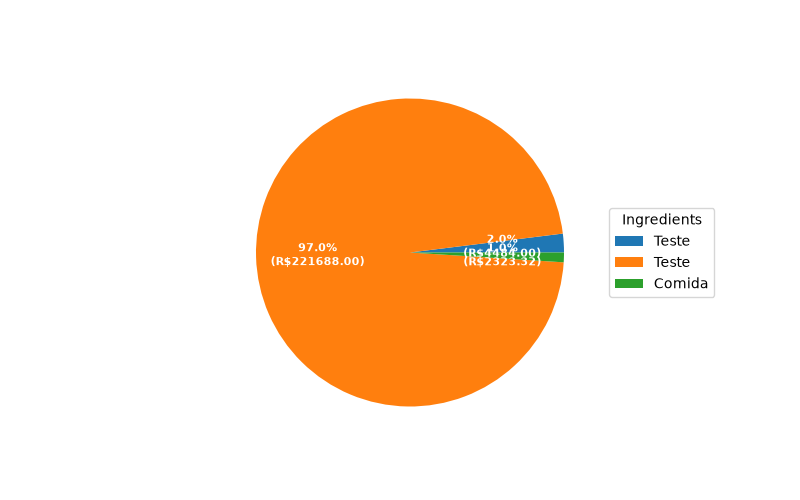
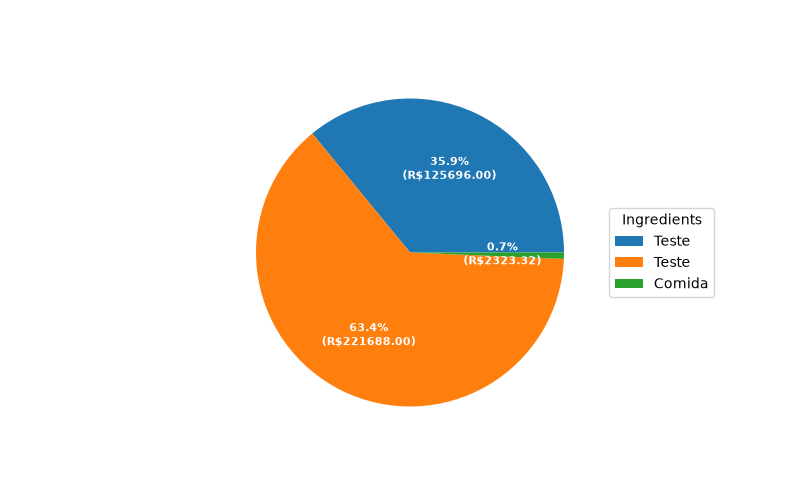
Ajustando caminhos e parte ganhos

Changed region(s): [[0.375, 0.18, 0.7188, 0.54], [0.4062, 0.63, 0.5312, 0.69], [0.3438, 0.48, 0.4688, 0.54]]

diff --git a/finance/templates/finance/ganhos.html b/finance/templates/finance/ganhos.html
@@ -6,9 +6,9 @@
 <head>
     <meta charset="UTF-8">
     <meta name="viewport" content="width=device-width, initial-scale=1.0">
-    <title>Gastos - Gestão Financeira</title>
+    <title>Ganhos - Gestão Financeira</title>
     <link href="https://cdn.jsdelivr.net/npm/bootstrap@5.3.0/dist/css/bootstrap.min.css" rel="stylesheet">
-    <link rel="stylesheet" href="../../static/style/gastos.css">
+    <link rel="stylesheet" href="../../static/style/ganhos.css">
 </head>
 
 <body class="bg-custom">
@@ -27,10 +27,10 @@
                     <a class="nav-link" href="{% url 'finance:dashboard' %}">Dashboard</a>
                 </li>
                 <li class="nav-item">
-                    <a class="nav-link active" href="{% url 'finance:consultar_gastos_by_params' %}">Gastos</a>
+                    <a class="nav-link" href="{% url 'finance:consultar_gastos_by_params' %}">Gastos</a>
                 </li>
                 <li class="nav-item">
-                    <a class="nav-link" href="{% url 'finance:consultar_ganhos_by_params' %}">Ganhos</a>
+                    <a class="nav-link active" href="{% url 'finance:consultar_ganhos_by_params' %}">Ganhos</a>
                 </li>
                 <li class="nav-item">
                     <a class="nav-link" href="#">Categorias</a>
@@ -52,9 +52,9 @@
 
                 <!-- Formulário de busca -->
                 <div class="card card-dark p-4 mb-4">
-                    <h5 class="mb-3 text-title">Consultar Gastos</h5>
+                    <h5 class="mb-3 text-title">Consultar Ganhos</h5>
 
-                    <form method="POST" action="{% url 'finance:consultar_gastos_by_params' %}">
+                    <form method="POST" action="{% url 'finance:consultar_ganhos_by_params' %}">
                         {% csrf_token %}
 
                         <div class="row g-3">
@@ -100,9 +100,9 @@
                     </form>
 
                     <div class="p-3 pt-0 mt-auto">
-                        <button type="button" class="btn btn-primary btn-add-gasto w-100 text-center"
-                            data-bs-toggle="modal" data-bs-target="#modalGasto">
-                            + Adicionar Gasto
+                        <button type="button" class="btn btn-primary btn-add-ganhos w-100 text-center"
+                            data-bs-toggle="modal" data-bs-target="#modalganhos">
+                            + Adicionar ganhos
                         </button>
                     </div>
                 </div>
@@ -111,7 +111,7 @@
                 <div class="card card-dark p-4">
                     <h5 class="mb-3 text-title">Resultados</h5>
 
-                    {% if gastos_consultados %}
+                    {% if ganhos_consultados %}
                     <div class="table-responsive table-scroll-container">
                         <table class="table table-dark-custom mb-0">
                             <thead>
@@ -124,26 +124,26 @@
                                 </tr>
                             </thead>
                             <tbody>
-                                {% for gasto in gastos_consultados %}
+                                {% for ganhos in ganhos_consultados %}
                                 <tr>
-                                    <td>{{ gasto.description }}</td>
-                                    <td class="text-negative">R$ {{ gasto.value }}</td>
-                                    <td>{{ gasto.date_paid }}</td>
+                                    <td>{{ ganhos.description }}</td>
+                                    <td class="text-negative">R$ {{ ganhos.value }}</td>
+                                    <td>{{ ganhos.date_paid }}</td>
                                     <td>
-                                        {% if gasto.is_paid %}
+                                        {% if ganhos.is_paid %}
                                         <span class="text-positive">Pago</span>
                                         {% else %}
                                         <span class="text-warning">Não pago</span>
                                         {% endif %}
                                     </td>
-                                    <td>{{ gasto.type }}</td>
+                                    <td>{{ ganhos.type }}</td>
                                 </tr>
                                 {% endfor %}
                             </tbody>
                         </table>
                     </div>
                     {% else %}
-                    <p class="text-label mb-0">Nenhum gasto encontrado.</p>
+                    <p class="text-label mb-0">Nenhum ganhos encontrado.</p>
                     {% endif %}
                 </div>
 
@@ -151,15 +151,15 @@
         </div>
     </div>
 
-    <div class="modal fade" id="modalGasto" tabindex="-1" aria-labelledby="modalGastoLabel" aria-hidden="true">
+    <div class="modal fade" id="modalganhos" tabindex="-1" aria-labelledby="modalganhosLabel" aria-hidden="true">
         <div class="modal-dialog">
             <div class="modal-content">
                 <div class="modal-header">
-                    <h1 class="modal-title fs-5" id="modalGastoLabel">Novo Gasto</h1>
+                    <h1 class="modal-title fs-5" id="modalGanhoLabel">Novo Ganho</h1>
                     <button type="button" class="btn-close" data-bs-dismiss="modal" aria-label="Close"></button>
                 </div>
                 <div class="modal-body">
-                    <form action="{% url 'finance:registrar_gasto' %}" method="post">
+                    <form action="{% url 'finance:registrar_ganho' %}" method="post">
                         {% csrf_token %}
                         <div class="mb-3">
                             <label for="description" class="form-label text-label">Descrição</label>
@@ -189,20 +189,20 @@
                             <label for="type" class="form-label text-label">Categoria</label>
                             <select class="form-select bg-dark text-white border-secondary" id="type" name="type">
                                 <option value="" selected disabled>Selecione uma opção</option>
-                                {% for tipo in tipos_gastos %}
+                                {% for tipo in tipos_ganhos %}
                                 <option value="{{ tipo.id }}">{{ tipo.name }}</option>
                                 {% endfor %}
                             </select>
 
                             <button type="button" class="btn btn-link btn-sm mt-1 p-0" data-bs-toggle="modal"
-                                data-bs-target="#modalTipoGasto">
+                                data-bs-target="#modalTipoganhos">
                                 + Adicionar Categoria
                             </button>
                         </div>
 
                         <div class="modal-footer border-secondary">
                             <button type="button" class="btn btn-secondary" data-bs-dismiss="modal">Close</button>
-                            <button type="submit" class="btn btn-primary">Salvar Gasto</button>
+                            <button type="submit" class="btn btn-primary">Salvar ganhos</button>
                         </div>
                     </form>
                 </div>
@@ -214,7 +214,7 @@
         <div class="modal-dialog">
             <div class="modal-content">
                 <div class="modal-header">
-                    <h1 class="modal-title fs-5" id="modalTipoGanhoLabel">Nova Categoria de Gasto</h1>
+                    <h1 class="modal-title fs-5" id="modalTipoGanhoLabel">Nova Categoria de ganhos</h1>
                     <button type="button" class="btn-close" data-bs-dismiss="modal" aria-label="Close"></button>
                 </div>
                 <div class="modal-body">

diff --git a/finance/static/style/ganhos.css b/finance/static/style/ganhos.css
@@ -117,6 +117,25 @@ body.bg-custom {
     transform: translateY(-2px);
 }
 
+.grafico-img {
+    max-width: 100%;
+    height: auto;
+    display: block;
+    margin: 0 auto;
+    border-radius: 0.5rem;
+}
+
+@media (max-width: 991.98px) {
+    .responsive-nav-items {
+        padding-top: 1rem;
+        flex-direction: column;
+        align-items: flex-start !important;
+    }
+}
+
+/* ==================== Específico da página de Gastos ==================== */
+
+/* Inputs e selects dentro dos cards escuros */
 .card-dark .form-control,
 .card-dark .form-select {
     background-color: var(--bg-principal);
@@ -166,28 +185,12 @@ body.bg-custom {
 .table-scroll-container thead th {
     position: sticky;
     top: 0;
-    background-color: var(--bg-cards);
+    background-color: var(--bg-cards); /* mesma cor do card pra não ficar transparente */
     z-index: 1;
 }
 
 .text-warning {
     color: var(--color-warning) !important;
-}
-
-.grafico-img {
-    max-width: 100%;
-    height: auto;
-    display: block;
-    margin: 0 auto;
-    border-radius: 0.5rem;
-}
-
-@media (max-width: 991.98px) {
-    .responsive-nav-items {
-        padding-top: 1rem;
-        flex-direction: column;
-        align-items: flex-start !important;
-    }
 }
 
 /* ==================== Sidebar fixa ==================== */

diff --git a/finance/templates/finance/dashboard.html b/finance/templates/finance/dashboard.html
@@ -30,7 +30,7 @@
                     <a class="nav-link" href="{% url 'finance:consultar_gastos_by_params' %}">Gastos</a>
                 </li>
                 <li class="nav-item">
-                    <a class="nav-link" href="#">Ganhos</a>
+                    <a class="nav-link" href="{% url 'finance:consultar_ganhos_by_params' %}">Ganhos</a>
                 </li>
                 <li class="nav-item">
                     <a class="nav-link" href="#">Categorias</a>

diff --git a/finance/static/style/gastos.css b/finance/static/style/gastos.css
@@ -229,7 +229,7 @@ body.bg-custom {
 }
 
 .sidebar-fixed .nav-link.active {
-    background-color: var(--cor-positivo);
+    background-color: var(--cor-negativo);
     color: #ffffff;
     font-weight: 600;
 }

diff --git a/finance/views.py b/finance/views.py
@@ -185,3 +185,32 @@ def consultar_gastos_by_params(request):
     context = {"gastos_consultados":gastos_consultados.order_by('-date_paid'), "tipos_gastos":tipos_gastos}
 
     return render(request, 'finance/gastos.html', context=context)    
+
+@login_required(login_url="/finance/login/")
+def consultar_ganhos_by_params(request):
+    user = request.user
+    ganhos_consultados = Ganho.objects.filter(user=user)
+
+    if request.method == "POST":
+        description_search = request.POST.get('description_search')
+        date_start = request.POST.get('date_start')
+        date_end = request.POST.get('date_end')
+        value = request.POST.get('value')
+
+        if description_search:
+            ganhos_consultados = ganhos_consultados.filter(description__icontains=description_search)
+
+        if date_start:
+            ganhos_consultados = ganhos_consultados.filter(date_paid__gte=date_start)
+
+        if date_end:
+            ganhos_consultados = ganhos_consultados.filter(date_paid__lte=date_end)
+
+        if value:
+            ganhos_consultados = ganhos_consultados.filter(value=value)
+
+    tipos_ganhos = TipoGasto.objects.filter(user=user)
+
+    context = {"ganhos_consultados":ganhos_consultados.order_by('-date_paid'), "tipos_ganhos":tipos_ganhos}
+
+    return render(request, 'finance/ganhos.html', context=context)    

diff --git a/finance/urls.py b/finance/urls.py
@@ -12,5 +12,6 @@ urlpatterns = [
     path('registrar-ganho/', views.registrar_ganho, name='registrar_ganho'),
     path('registrar-tipo-gasto', views.registrar_tipo_gasto, name='registrar_tipo_gasto'),
     path('registrar-tipo-ganho', views.registrar_tipo_ganho, name='registrar_tipo_ganho'),
-    path('consultar-gastos-by-params', views.consultar_gastos_by_params, name="consultar_gastos_by_params")
+    path('consultar-gastos-by-params', views.consultar_gastos_by_params, name="consultar_gastos_by_params"),
+    path('consultar-ganhos-by-params', views.consultar_ganhos_by_params, name="consultar_ganhos_by_params")
 ]

diff --git a/finance/analytics.py b/finance/analytics.py
@@ -48,8 +48,6 @@ def grafico_by_category_ganho(movimentacao, user):
 
     df = pd.DataFrame(movimentacao)
     df['value'] = df['value'].astype(float)
-    print(df.dtypes)
-    print(df['value'])
 
     por_type = df[['type__name', 'value']].groupby('type__name').sum() # Group entries with the same type_id and sum their value
 
